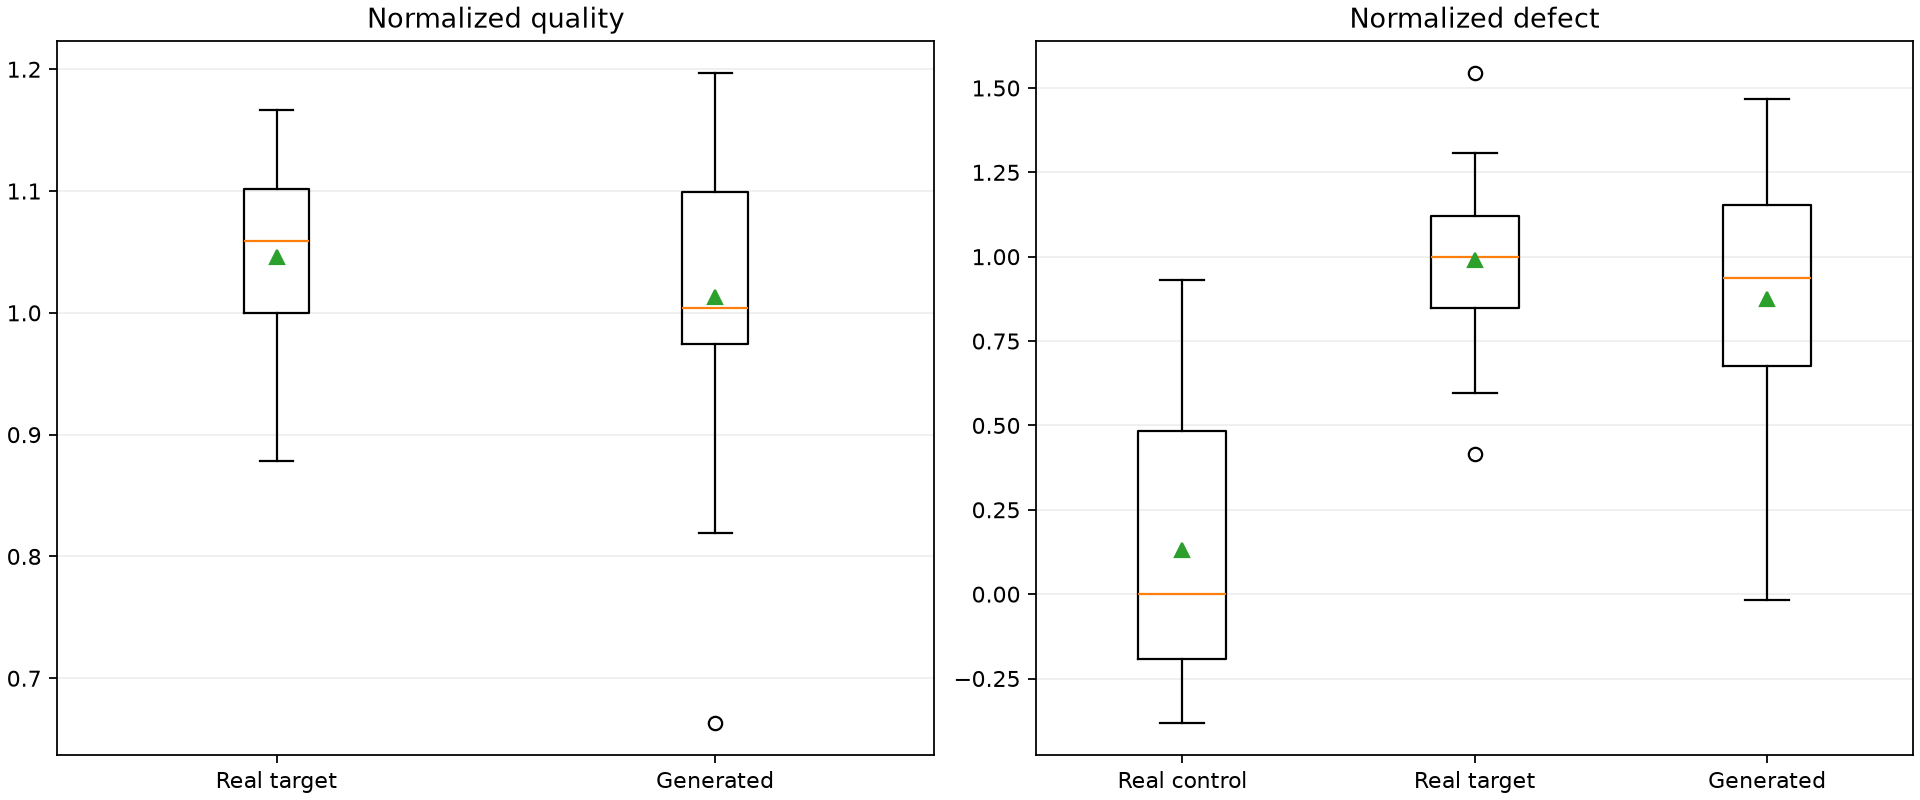
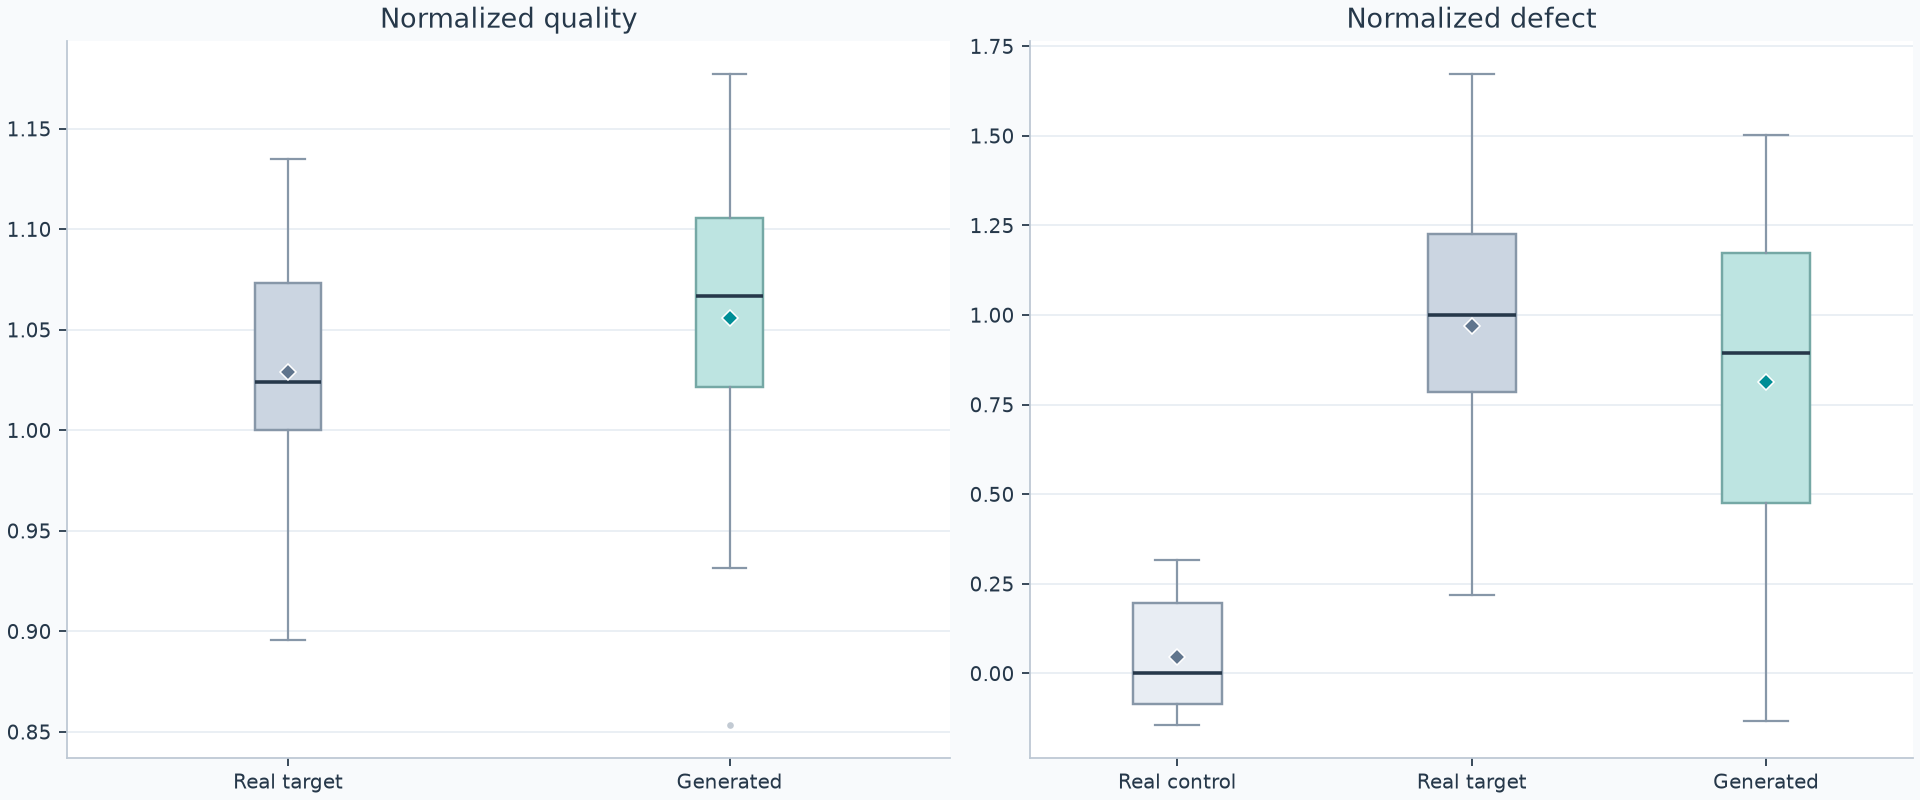
Refresh example figures and refine boxplot styling
Use the selected example series with its computed first stop. Apply consistent teal generated distributions, blue-grey real references and clearer medians across training and inference reports.

diff --git a/src/ai_self_evaluation/reporting.py b/src/ai_self_evaluation/reporting.py
@@ -8,6 +8,28 @@ matplotlib.use('Agg')
 import matplotlib.pyplot as plt
 from .util import read_json,write_csv
 
+GENERATED='#008e96'
+GENERATED_FILL='#bde4e1'
+REAL_TARGET='#cbd5e1'
+REAL_CONTROL='#e8edf3'
+INK='#26384a'
+EDGE='#8797a8'
+
+def style_figure(fig):
+    fig.set_facecolor('#f8fafc')
+    for ax in fig.axes:
+        ax.set_facecolor('white');ax.set_axisbelow(True)
+        for side in ('top','right'):ax.spines[side].set_visible(False)
+        for side in ('left','bottom'):
+            ax.spines[side].set_color('#bdc8d4');ax.spines[side].set_linewidth(.8)
+        ax.tick_params(colors=INK,labelsize=9)
+        ax.title.set_color(INK);ax.xaxis.label.set_color(INK);ax.yaxis.label.set_color(INK)
+        ax.grid(axis='y',color='#dce4ed',alpha=.75,linewidth=.7)
+        legend=ax.get_legend()
+        if legend:
+            legend.get_frame().set_facecolor('white');legend.get_frame().set_edgecolor('#dce4ed');legend.get_frame().set_alpha(.95)
+    if fig._suptitle:fig._suptitle.set_color(INK)
+
 def normalized(rows,norm,key):
     if key=='quality':return [r['QI']/norm['quality_reference'] for r in rows]
     if key=='defect':return [(r['D2']-norm['healthy_reference'])/norm['defect_span'] for r in rows]
@@ -19,6 +41,7 @@ def box_stats(values):
 
 def finish(fig,folder,settings,title):
     folder=Path(folder);folder.mkdir(parents=True,exist_ok=True);buffer=io.BytesIO()
+    style_figure(fig)
     fig.savefig(buffer,format='png',dpi=settings['dpi'])
     if 'png' in settings['formats']:(folder/'boxplots.png').write_bytes(buffer.getvalue())
     if 'pdf' in settings['formats']:fig.savefig(folder/'boxplots.pdf')
@@ -36,7 +59,7 @@ def training_report(root,baseline,observations,settings,policy=None):
     for k,(ax,key,title) in enumerate(zip(axes,keys,titles)):
         for bank,x in ([('target',-40)] if k==0 else [('control',-90),('target',-40)] if k==1 else []):
             values=normalized(baseline[bank],norm,key)
-            ax.boxplot([values],positions=[x],widths=22,manage_ticks=False,patch_artist=True,boxprops=dict(facecolor='#c2c8d0'),flierprops=dict(marker='.',markersize=2))
+            ax.boxplot([values],positions=[x],widths=22,manage_ticks=False,patch_artist=True,boxprops=dict(facecolor=REAL_TARGET if bank=='target' else REAL_CONTROL,edgecolor=EDGE,linewidth=.9),medianprops=dict(color=INK,linewidth=1.5),whiskerprops=dict(color=EDGE),capprops=dict(color=EDGE),flierprops=dict(marker='o',markersize=2,markerfacecolor=EDGE,markeredgecolor='none',alpha=.5))
             stats.append(dict(metric=key,epoch='',group='real_'+bank,**box_stats(values)))
         positions=[];data=[]
         for o in observations:
@@ -44,8 +67,8 @@ def training_report(root,baseline,observations,settings,policy=None):
             if values:stats.append(dict(metric=key,epoch=o['epoch'],group='generated',**box_stats(values)))
             if o in selected and values:positions.append(o['epoch']);data.append(values)
         if data:
-            ax.boxplot(data,positions=positions,widths=min(settings['boxplot_every_epochs']*.5,24),manage_ticks=False,patch_artist=True,boxprops=dict(facecolor='#9ed7d4',alpha=.6),medianprops=dict(color='#152b36'),flierprops=dict(marker='.',markersize=2,alpha=.4))
-            if k>0:ax.scatter(positions,[np.mean(v) for v in data],color='#008e96',s=13,label='Per-epoch mean')
+            ax.boxplot(data,positions=positions,widths=min(settings['boxplot_every_epochs']*.5,24),manage_ticks=False,patch_artist=True,boxprops=dict(facecolor=GENERATED_FILL,edgecolor='#75a8a5',linewidth=.9),medianprops=dict(color=INK,linewidth=1.4),whiskerprops=dict(color=EDGE),capprops=dict(color=EDGE),flierprops=dict(marker='o',markersize=2,markerfacecolor=EDGE,markeredgecolor='none',alpha=.45))
+            if k>0:ax.scatter(positions,[np.mean(v) for v in data],color=GENERATED,s=18,edgecolors='white',linewidths=.45,zorder=4,label='Per-epoch mean')
         curve=[o for o in observations if o['decision'][key+'_smooth'] is not None]
         if curve:ax.plot([o['epoch'] for o in curve],[o['decision'][key+'_smooth'] for o in curve],color='#008e96',label='Smoothed controller aggregate')
         ts=[threshold['quality_enter_ratio'],threshold['quality_exit_ratio']] if k==0 else [threshold['defect_enter_normalized'],threshold['defect_exit_normalized']] if k==1 else [threshold['progress_max']]
@@ -53,7 +76,7 @@ def training_report(root,baseline,observations,settings,policy=None):
         stop=next((o['epoch'] for o in observations if o['decision']['first_stop']),None)
         if stop is not None:ax.axvline(stop,color='#c33',ls=':',label='First stop '+str(stop))
         xmax=max(o['epoch'] for o in observations);xticks=list(range(0,xmax+1,max(50,50*((xmax//10)//50))))
-        ax.set_xticks(([-40] if k==0 else [-90,-40] if k==1 else [])+xticks,(['Real target'] if k==0 else ['Real control','Real target'] if k==1 else [])+[str(x) for x in xticks],fontsize=8)
+        ax.set_xticks(([-40] if k==0 else [-90,-40] if k==1 else [])+xticks,(['Real\ntarget'] if k==0 else ['Real\ncontrol','Real\ntarget'] if k==1 else [])+[str(x) for x in xticks],fontsize=8)
         ax.set_title(title);ax.set_xlabel('Epoch');ax.set_xlim(-120,max(70,xmax+20));ax.grid(axis='y',alpha=.2);ax.legend(fontsize=8,loc='best')
     fig.suptitle('Reference-based evaluation: image distributions and early-stopping signals')
     write_csv(root/'training/boxplot_statistics.csv',stats)
@@ -77,6 +100,7 @@ def controller_curves(folder,observations,settings,policy):
     if stop is not None:
         for ax in axes:ax.axvline(stop,color='#c33',ls=':')
     fig.suptitle('Controller signals and confirmation'+(' - first stop '+str(stop) if stop is not None else ''))
+    style_figure(fig)
     buffer=io.BytesIO();fig.savefig(buffer,format='png',dpi=settings['dpi'])
     if 'png' in settings['formats']:(folder/'curves.png').write_bytes(buffer.getvalue())
     if 'pdf' in settings['formats']:fig.savefig(folder/'curves.pdf')
@@ -90,6 +114,11 @@ def inference_report(folder,baseline,rows,settings):
     for ax,key in zip(axes,['quality','defect']):
         names=['Real target','Generated'] if key=='quality' else ['Real control','Real target','Generated']
         datasets=[normalized(baseline['target'],norm,key),normalized(rows,norm,key)] if key=='quality' else [normalized(baseline['control'],norm,key),normalized(baseline['target'],norm,key),normalized(rows,norm,key)]
-        ax.boxplot(datasets,showmeans=True);ax.set_xticks(range(1,len(names)+1),names);ax.set_title('Normalized '+key);ax.grid(axis='y',alpha=.2)
+        boxes=ax.boxplot(datasets,showmeans=True,patch_artist=True,medianprops=dict(color=INK,linewidth=1.6),whiskerprops=dict(color=EDGE,linewidth=1),capprops=dict(color=EDGE),flierprops=dict(marker='o',markersize=3,markerfacecolor=EDGE,markeredgecolor='none',alpha=.5),meanprops=dict(marker='D',markersize=5,markerfacecolor=GENERATED,markeredgecolor='white',markeredgewidth=.7))
+        fills=[REAL_TARGET,GENERATED_FILL] if key=='quality' else [REAL_CONTROL,REAL_TARGET,GENERATED_FILL]
+        for i,(box,fill) in enumerate(zip(boxes['boxes'],fills)):
+            box.set(facecolor=fill,edgecolor='#75a8a5' if i==len(fills)-1 else EDGE,linewidth=1.1)
+            if i<len(fills)-1:boxes['means'][i].set_markerfacecolor('#60758d')
+        ax.set_xticks(range(1,len(names)+1),names);ax.set_title('Normalized '+key);ax.grid(axis='y',alpha=.2)
         stats.extend(dict(metric=key,group=name,**box_stats(v)) for name,v in zip(names,datasets))
     write_csv(Path(folder)/'boxplot_statistics.csv',stats);finish(fig,folder,settings,'Inference evaluation')

diff --git a/README.md b/README.md
@@ -12,6 +12,8 @@ Illustrative output layout: image-level boxplots, original-real references, cont
 
 The package itself generates this three-panel report. Plot spacing, report formats, resolution, update frequency and all stopping settings are configurable in YAML. Inference produces real-versus-generated boxplots and one score row per input image.
 
+Teal boxes represent generated images; blue-grey boxes represent real references. Dark center lines show medians, and colored markers show means where required by the aggregation rule.
+
 ### Controller curves and confirmation
 
 ![Example controller curves and consecutive confirmation counter](docs/assets/controller-example.png)
